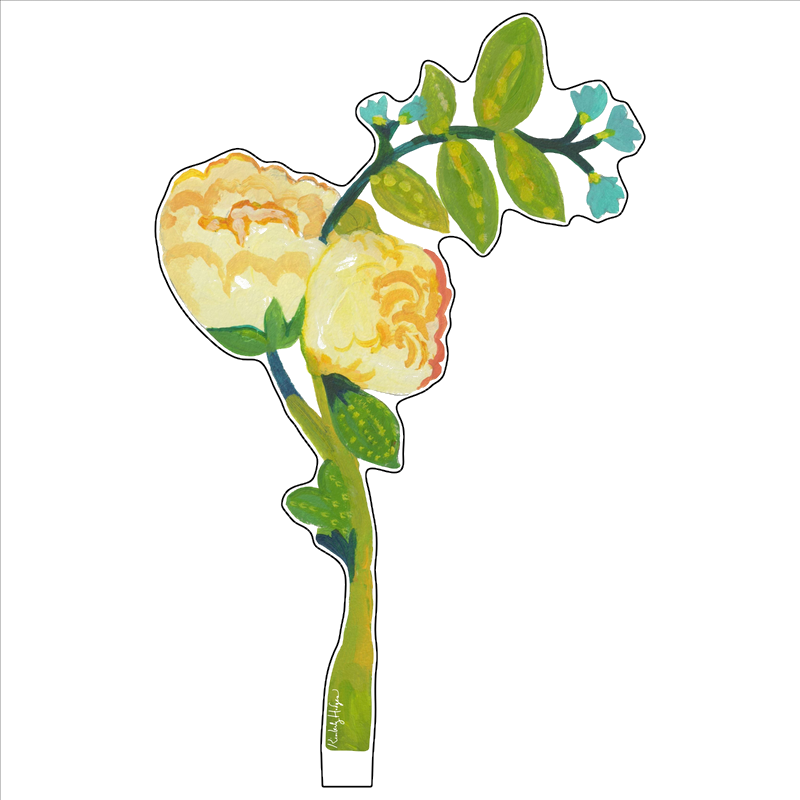
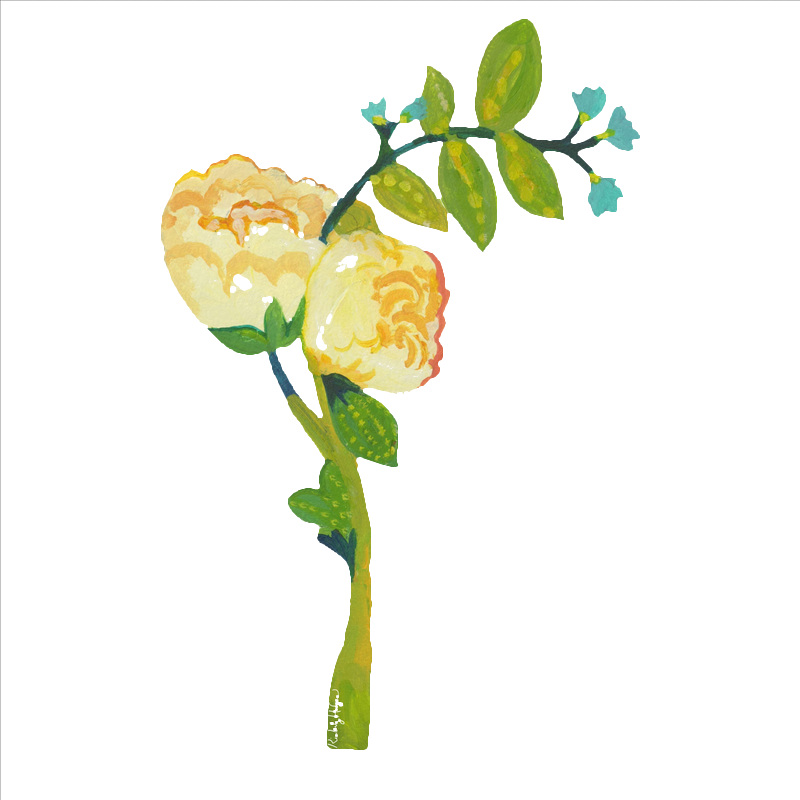
Polish: realistic proportions, responsive layout, clean edges
- Composition now scales responsively (80% width, 75vh height)
- Base is thin and subtle like the real product (18px strip)
- Flowers are much larger and dominate (matching real product photos)
- Flower positions spread wider to avoid overlap
- Deep-cleaned edges with 3-pass erosion + artifact removal
- Name labels only show on selected flowers (cleaner look)
- Mobile layout works well (tested on iPhone 14 viewport)
- Stand picker clearly visible on all screen sizes

diff --git a/src/data/stands.ts b/src/data/stands.ts
@@ -10,9 +10,9 @@ export const standConfigs: StandConfig[] = [
     price: 23.85,
     image: `${CDN}/KHA-S003_Triple_Stand_Green_Lotus.jpg`,
     slots: [
-      { key: "back", label: "Back", size: "LG", x: 50, y: 16, flowerHeight: 340 },
-      { key: "frontLeft", label: "Front Left", size: "SM", x: 34, y: 6, flowerHeight: 240 },
-      { key: "frontRight", label: "Front Right", size: "SM", x: 66, y: 6, flowerHeight: 240 },
+      { key: "back", label: "Back", size: "LG", x: 50, y: 10, flowerHeight: 420 },
+      { key: "frontLeft", label: "Front Left", size: "SM", x: 25, y: 8, flowerHeight: 280 },
+      { key: "frontRight", label: "Front Right", size: "SM", x: 75, y: 8, flowerHeight: 280 },
     ],
   },
   {
@@ -22,9 +22,9 @@ export const standConfigs: StandConfig[] = [
     price: 23.85,
     image: `${CDN}/KHA-S007_Triple_Stand.jpg`,
     slots: [
-      { key: "back", label: "Back", size: "LG", x: 50, y: 16, flowerHeight: 340 },
-      { key: "frontLeft", label: "Front Left", size: "SM", x: 34, y: 6, flowerHeight: 240 },
-      { key: "frontRight", label: "Front Right", size: "SM", x: 66, y: 6, flowerHeight: 240 },
+      { key: "back", label: "Back", size: "LG", x: 50, y: 10, flowerHeight: 420 },
+      { key: "frontLeft", label: "Front Left", size: "SM", x: 25, y: 8, flowerHeight: 280 },
+      { key: "frontRight", label: "Front Right", size: "SM", x: 75, y: 8, flowerHeight: 280 },
     ],
   },
   {
@@ -34,8 +34,8 @@ export const standConfigs: StandConfig[] = [
     price: 23.85,
     image: `${CDN}/KHA-S008_Double_Stand.jpg`,
     slots: [
-      { key: "left", label: "Left", size: "LG", x: 42, y: 12, flowerHeight: 320 },
-      { key: "right", label: "Right", size: "SM", x: 58, y: 6, flowerHeight: 240 },
+      { key: "left", label: "Left", size: "LG", x: 38, y: 9, flowerHeight: 400 },
+      { key: "right", label: "Right", size: "SM", x: 62, y: 8, flowerHeight: 280 },
     ],
   },
   {
@@ -45,8 +45,8 @@ export const standConfigs: StandConfig[] = [
     price: 23.85,
     image: `${CDN}/KHA-548_Double_Stand_Pattern_Clover_and_Moss_8b0fac9d-ff2a-4562-ab41-ba62db36815a.jpg`,
     slots: [
-      { key: "left", label: "Left", size: "LG", x: 42, y: 12, flowerHeight: 320 },
-      { key: "right", label: "Right", size: "SM", x: 58, y: 6, flowerHeight: 240 },
+      { key: "left", label: "Left", size: "LG", x: 38, y: 9, flowerHeight: 400 },
+      { key: "right", label: "Right", size: "SM", x: 62, y: 8, flowerHeight: 280 },
     ],
   },
   {
@@ -56,7 +56,7 @@ export const standConfigs: StandConfig[] = [
     price: 23.85,
     image: `${CDN}/KHA-S002_Single_Stand_LG_Leaf.jpg`,
     slots: [
-      { key: "center", label: "Flower", size: "LG", x: 50, y: 12, flowerHeight: 340 },
+      { key: "center", label: "Flower", size: "LG", x: 50, y: 9, flowerHeight: 420 },
     ],
   },
   {
@@ -66,7 +66,7 @@ export const standConfigs: StandConfig[] = [
     price: 23.85,
     image: `${CDN}/KHA-S004_Single_Stand_LG_Lotus.jpg`,
     slots: [
-      { key: "center", label: "Flower", size: "LG", x: 50, y: 12, flowerHeight: 340 },
+      { key: "center", label: "Flower", size: "LG", x: 50, y: 9, flowerHeight: 420 },
     ],
   },
 ];

diff --git a/src/components/Canvas/ArrangementCanvas.css b/src/components/Canvas/ArrangementCanvas.css
@@ -13,43 +13,47 @@
 /* ---------- Composition ---------- */
 .composition {
   position: relative;
-  width: 450px;
-  height: 520px;
+  width: 80%;
+  max-width: 600px;
+  height: 75vh;
+  max-height: 600px;
 }
 
 /* ---------- Stand ---------- */
 .stand-base {
   position: absolute;
-  bottom: 30px;
+  bottom: 60px;
   left: 50%;
   transform: translateX(-50%);
   z-index: 5;
   pointer-events: none;
-  width: 300px;
+  width: 50%;
+  max-width: 260px;
 }
 
 .stand-constructed {
   width: 100%;
-  height: 44px;
-  border-radius: 24px;
-  background-size: cover;
-  background-position: center;
+  height: 18px;
+  border-radius: 10px;
+  background: linear-gradient(180deg, rgba(255,255,255,0.7) 0%, rgba(230,230,225,0.6) 100%);
   box-shadow:
-    0 2px 0 rgba(0,0,0,0.08),
-    0 6px 16px rgba(0,0,0,0.12);
-  border: 1px solid rgba(255,255,255,0.3);
+    0 2px 0 rgba(0,0,0,0.06),
+    0 6px 16px rgba(0,0,0,0.1),
+    inset 0 1px 2px rgba(255,255,255,0.8);
+  border: 1px solid rgba(200,195,185,0.4);
   position: relative;
+  backdrop-filter: blur(8px);
 }
 
 /* Acrylic edge highlight on top */
 .stand-constructed::before {
   content: '';
   position: absolute;
-  top: 0;
-  left: 10px;
-  right: 10px;
-  height: 2px;
-  background: linear-gradient(90deg, transparent, rgba(255,255,255,0.5), transparent);
+  top: 1px;
+  left: 16px;
+  right: 16px;
+  height: 1px;
+  background: linear-gradient(90deg, transparent, rgba(255,255,255,0.7), transparent);
   border-radius: 2px;
 }
 
@@ -66,8 +70,8 @@
 }
 
 .stand-slot-mark {
-  width: 22px;
-  height: 6px;
+  width: 14px;
+  height: 4px;
   background: rgba(255,255,255,0.35);
   border-radius: 2px;
   border: 1px solid rgba(0,0,0,0.08);
@@ -115,7 +119,7 @@
 
 .slot-flower-tag {
   position: absolute;
-  bottom: -8px;
+  bottom: 12px;
   background: rgba(255, 255, 255, 0.92);
   padding: 2px 10px;
   border-radius: 10px;
@@ -125,6 +129,7 @@
   white-space: nowrap;
   box-shadow: 0 1px 4px rgba(0, 0, 0, 0.1);
   pointer-events: none;
+  z-index: 10;
 }
 
 .slot-remove {

diff --git a/src/components/Canvas/ArrangementCanvas.tsx b/src/components/Canvas/ArrangementCanvas.tsx
@@ -45,10 +45,7 @@ export function ArrangementCanvas({
 
         {/* Stand */}
         <div className="stand-base">
-          <div
-            className="stand-constructed"
-            style={{ backgroundImage: `url(/stands/${stand.id}.png)` }}
-          >
+          <div className="stand-constructed">
             <div className="stand-slots-indicator">
               {stand.slots.map((s) => (
                 <div key={s.key} className="stand-slot-mark" />
@@ -71,7 +68,7 @@ export function ArrangementCanvas({
                 slot={slot}
                 product={product}
                 isSelected={isSelected}
-                zIndex={8}
+                zIndex={4}
                 onSelect={() => onSelectSlot(slot.key)}
                 onRemove={() => onRemoveFlower(slot.key)}
               />
@@ -123,7 +120,7 @@ function FlowerInSlot({
         left: `${slot.x}%`,
         bottom: `${slot.y}%`,
         height: slot.flowerHeight,
-        width: slot.size === "LG" ? 220 : 165,
+        width: slot.size === "LG" ? 240 : 170,
         zIndex,
       }}
       onClick={(e) => {
@@ -149,7 +146,7 @@ function FlowerInSlot({
               <X size={12} />
             </button>
           )}
-          <span className="slot-flower-tag">{product.name}</span>
+          {isSelected && <span className="slot-flower-tag">{product.name}</span>}
         </>
       ) : (
         <div className={`slot-placeholder ${isSelected ? "active" : ""}`}>
